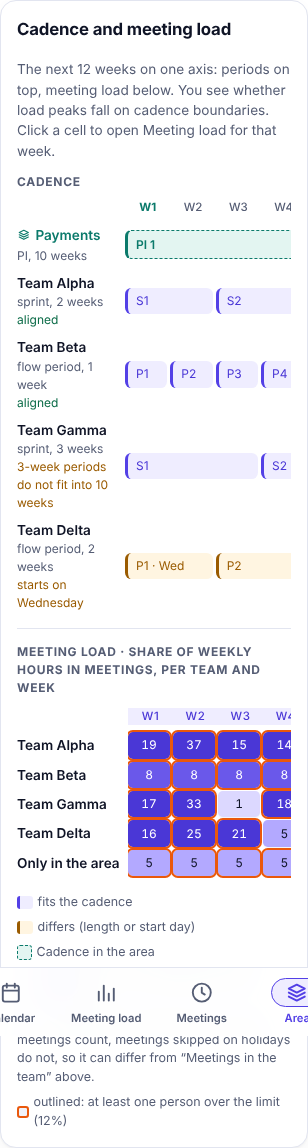
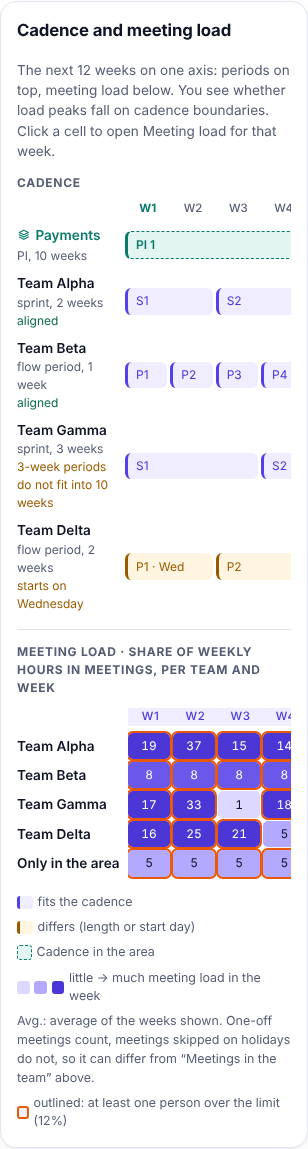
Address review: area-scoped hints, example file tests, phone shots
- Meeting load with an area chosen shows only that area's hints; hints
  are sorted by person name.
- "These lines are not the limit" wording; help says the row of people
  only in the area shows 100 % without area hours.
- The one-rule unit tests also run on the example file.
- Phone PNGs re-shot without the bottom tab bar.

diff --git a/tests/unit/area-overview.test.ts b/tests/unit/area-overview.test.ts
@@ -17,6 +17,7 @@ import {
   type Workspace,
 } from '../../src/core/model';
 import type { HolidayIndex } from '../../src/core/regions';
+import example from '../../src/data/examples/example.caldence.json';
 import { areaWorkspace } from '../e2e/area-fixture';
 
 const noIndex = (): HolidayIndex => ({
@@ -332,42 +333,52 @@ describe('one rule for over the limit on the area fixture (#307, #334)', () => {
     );
   }
 
-  it.each([0.6, 0.3, 0.12])('Warnings and the people table agree at a limit of %s', (max) => {
-    const ws = areaWorkspace() as unknown as Workspace;
+  const files = {
+    'area fixture': () => areaWorkspace() as unknown as Workspace,
+    'example file': () => structuredClone(example) as unknown as Workspace,
+  };
+  const cases = Object.keys(files).flatMap((file) =>
+    [0.6, 0.3, 0.12].map((max) => [file as keyof typeof files, max] as const),
+  );
+
+  it.each(cases)('%s: Warnings and the people table agree at a limit of %s', (file, max) => {
+    const ws = files[file]();
     ws.settings.thresholds.maxFte = max;
     expect(overByWarnings(ws)).toEqual(overByRule(ws));
   });
 
-  it.each([0.6, 0.3, 0.12])('the Overview strip counts the same weeks at %s', (max) => {
-    const ws = areaWorkspace() as unknown as Workspace;
+  it.each(cases)('%s: the Overview strip counts the same weeks at %s', (file, max) => {
+    const ws = files[file]();
     ws.settings.thresholds.maxFte = max;
-    const a = ws.areas[0]!;
-    const weeks = loadPerWeek(ws, noIndex());
-    const rows = [
-      ...a.teamIds.map((id) =>
-        teamLoad(
-          ws,
-          ws.teams.find((t) => t.id === id)!,
-          weeks,
+    expect(ws.areas.length).toBeGreaterThan(0);
+    for (const a of ws.areas) {
+      const weeks = loadPerWeek(ws, noIndex());
+      const rows = [
+        ...a.teamIds.map((id) =>
+          teamLoad(
+            ws,
+            ws.teams.find((t) => t.id === id)!,
+            weeks,
+          ),
         ),
-      ),
-      areaOnlyLoad(ws, a, weeks),
-    ];
-    const stripWeeks = weeks.filter((_, i) => rows.some((r) => r[i]!.warn)).map((w) => w.monday);
-    const inArea = new Set(
-      [
-        ...a.members,
-        ...ws.teams.filter((t) => a.teamIds.includes(t.id)).flatMap((t) => t.members),
-      ].map((m) => m.personId),
-    );
-    const warned = [
-      ...new Set(
-        warnings(weeks, ws)
-          .filter((w) => w.kind === 'above-fte' && inArea.has(w.personId))
-          .map((w) => w.monday),
-      ),
-    ].sort();
-    expect(stripWeeks).toEqual(warned);
+        areaOnlyLoad(ws, a, weeks),
+      ];
+      const stripWeeks = weeks.filter((_, i) => rows.some((r) => r[i]!.warn)).map((w) => w.monday);
+      const inArea = new Set(
+        [
+          ...a.members,
+          ...ws.teams.filter((t) => a.teamIds.includes(t.id)).flatMap((t) => t.members),
+        ].map((m) => m.personId),
+      );
+      const warned = [
+        ...new Set(
+          warnings(weeks, ws)
+            .filter((w) => w.kind === 'above-fte' && inArea.has(w.personId))
+            .map((w) => w.monday),
+        ),
+      ].sort();
+      expect(stripWeeks).toEqual(warned);
+    }
   });
 
   it('has missing area hours as one hint per person and area', () => {

diff --git a/src/ui/views/LoadView.svelte b/src/ui/views/LoadView.svelte
@@ -147,16 +147,21 @@
 
   const allWarnings = $derived(warnings(weeks, $workspace));
 
-  /** Area hours that are missing or mostly taken by area meetings: hints, not warnings (#307). */
+  /**
+   * Area hours that are missing or mostly taken by area meetings: hints, not warnings (#307).
+   * With an area chosen only that area's hints; sorted by name.
+   */
   const hintItems = $derived.by(() => {
     const ws = $workspace;
     const inScope = scopePeople(ws, $filter);
+    const nameOf = (id: string) => ws.people.find((p) => p.id === id)?.name ?? id;
     return areaHints(weeks, ws)
-      .filter((h) => inScope.has(h.personId))
+      .filter((h) => inScope.has(h.personId) && (!area || h.areaId === area.id))
+      .sort((a, b) => nameOf(a.personId).localeCompare(nameOf(b.personId), $locale))
       .map((h) => ({
         key: `${h.personId}/${h.areaId}`,
         text: $t(`load.hint.${h.kind}`, {
-          person: ws.people.find((p) => p.id === h.personId)?.name ?? h.personId,
+          person: nameOf(h.personId),
           area: ws.areas.find((a) => a.id === h.areaId)?.name ?? h.areaId,
           hours: hours(h.hours),
           share: formatPercent($locale, fte(h.hours, h.areaHours)),

diff --git a/tests/e2e/area-overview.spec.ts b/tests/e2e/area-overview.spec.ts
@@ -197,7 +197,7 @@ test('area meetings without area hours do not outline every week (#294, #307)', 
     /^Sam: invited to meetings in Payments \(up to \d+\.\d h a week\), but no hours are set there$/,
   );
   await expect(
-    warnings.getByText(/^Not the limit, which always counts all meetings/),
+    warnings.getByText(/^These lines are not the limit, which always counts all meetings/),
   ).toBeVisible();
 });
 
